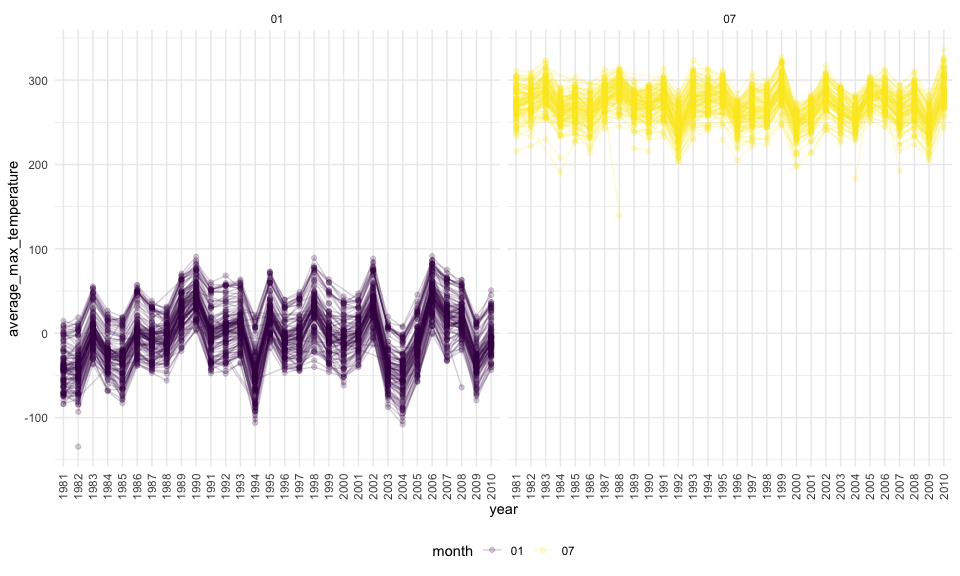
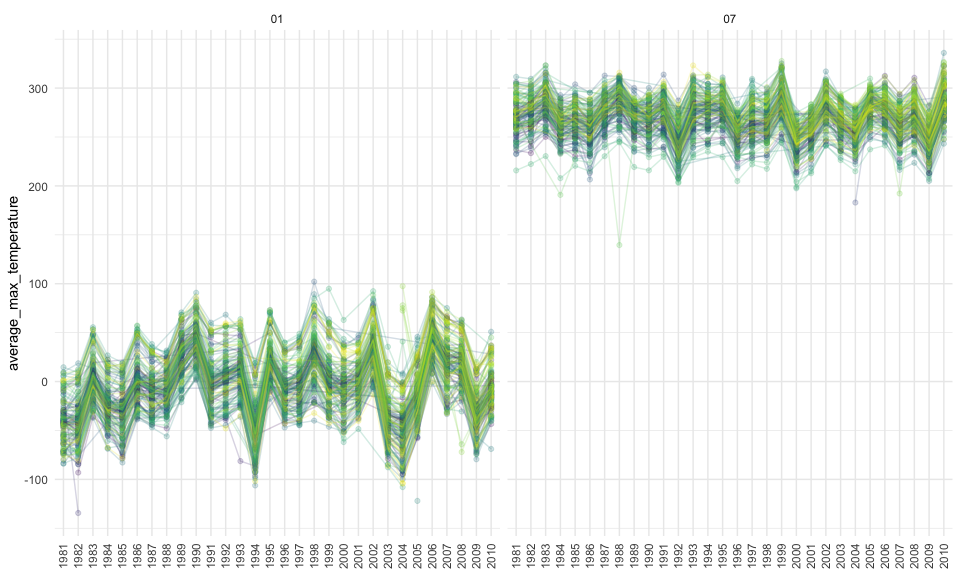
HW3: Final Version 2.0

diff --git a/p8105_hw3_cm4047.md b/p8105_hw3_cm4047.md
@@ -207,48 +207,24 @@ Create a table:
 accel_df %>% 
          group_by(week, day_of_the_week) %>% 
          summarise(sum_activity = sum(activity_counts)) %>% 
+         pivot_wider(
+              names_from = week,
+              names_prefix = "week ",
+              values_from = sum_activity) %>% 
          knitr::kable()
 ```
 
     ## `summarise()` regrouping output by 'week' (override with `.groups` argument)
 
-| week | day\_of\_the\_week | sum\_activity |
-| ---: | :----------------- | ------------: |
-|    1 | Sunday             |     631105.00 |
-|    1 | Monday             |      78828.07 |
-|    1 | Tuesday            |     307094.24 |
-|    1 | Wednesday          |     340115.01 |
-|    1 | Thursday           |     355923.64 |
-|    1 | Friday             |     480542.62 |
-|    1 | Saturday           |     376254.00 |
-|    2 | Sunday             |     422018.00 |
-|    2 | Monday             |     295431.00 |
-|    2 | Tuesday            |     423245.00 |
-|    2 | Wednesday          |     440962.00 |
-|    2 | Thursday           |     474048.00 |
-|    2 | Friday             |     568839.00 |
-|    2 | Saturday           |     607175.00 |
-|    3 | Sunday             |     467052.00 |
-|    3 | Monday             |     685910.00 |
-|    3 | Tuesday            |     381507.00 |
-|    3 | Wednesday          |     468869.00 |
-|    3 | Thursday           |     371230.00 |
-|    3 | Friday             |     467420.00 |
-|    3 | Saturday           |     382928.00 |
-|    4 | Sunday             |     260617.00 |
-|    4 | Monday             |     409450.00 |
-|    4 | Tuesday            |     319568.00 |
-|    4 | Wednesday          |     434460.00 |
-|    4 | Thursday           |     340291.00 |
-|    4 | Friday             |     154049.00 |
-|    4 | Saturday           |       1440.00 |
-|    5 | Sunday             |     138421.00 |
-|    5 | Monday             |     389080.00 |
-|    5 | Tuesday            |     367824.00 |
-|    5 | Wednesday          |     445366.00 |
-|    5 | Thursday           |     549658.00 |
-|    5 | Friday             |     620860.00 |
-|    5 | Saturday           |       1440.00 |
+| day\_of\_the\_week |    week 1 | week 2 | week 3 | week 4 | week 5 |
+| :----------------- | --------: | -----: | -----: | -----: | -----: |
+| Sunday             | 631105.00 | 422018 | 467052 | 260617 | 138421 |
+| Monday             |  78828.07 | 295431 | 685910 | 409450 | 389080 |
+| Tuesday            | 307094.24 | 423245 | 381507 | 319568 | 367824 |
+| Wednesday          | 340115.01 | 440962 | 468869 | 434460 | 445366 |
+| Thursday           | 355923.64 | 474048 | 371230 | 340291 | 549658 |
+| Friday             | 480542.62 | 568839 | 467420 | 154049 | 620860 |
+| Saturday           | 376254.00 | 607175 | 382928 |   1440 |   1440 |
 
 Create plots showing the trend:
 
@@ -412,26 +388,23 @@ ny_noaa %>%
                 tmax = as.numeric(tmax),
                 tmin = as.numeric(tmin)
         ) %>% 
-        summarise(average_max_temperature = mean(tmax)) %>% 
-        ggplot(aes(x = year, y = average_max_temperature, color = month, group = id)) +
+        summarise(average_max_temperature = mean(tmax, na.rm = T)) %>% 
+        drop_na() %>% 
+        ggplot(aes(x = year, y = average_max_temperature, color = id, group = id)) +
         geom_point(alpha = .2) +
         geom_path(alpha = .2) +
         facet_grid(.~ month) +
-        theme(axis.text.x = element_text(angle = 90, vjust = 0.5, hjust = 1))
+        theme(legend.position = 'none', axis.title.x = element_blank(), axis.text.x = element_text(angle = 90, vjust = 0.5, hjust = 1))
 ```
 
     ## `summarise()` regrouping output by 'year', 'month' (override with `.groups` argument)
-
-    ## Warning: Removed 7058 rows containing missing values (geom_point).
-
-    ## Warning: Removed 6147 row(s) containing missing values (geom_path).
 
 <img src="p8105_hw3_cm4047_files/figure-gfm/unnamed-chunk-15-1.png" width="90%" />
 
 From the scatterplot above, we can see that the average max temperature
 in January is lower than that in July in each station across years.
-Also, there is no significant increasing or decreasing trend from 1981
-to 2010 in January and July.
+Also, there is more outlier average max temperature in July than those
+in January.
 
 ``` r
 noaa_df %>% 
